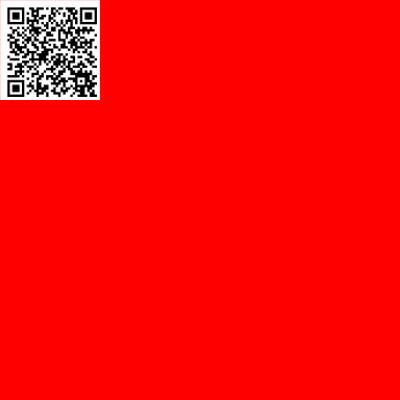
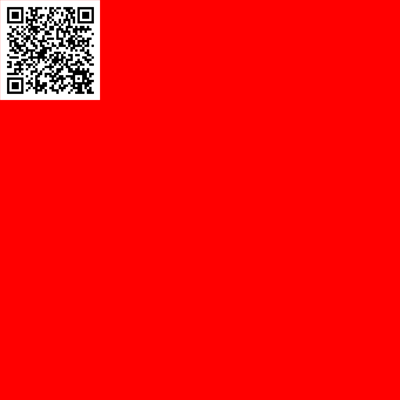
feat: clip rectangle with oss

Changed region(s): [[0.0, 0.0, 0.24, 0.24]]

diff --git a/src/canvas/util.go b/src/canvas/util.go
@@ -21,20 +21,35 @@ func urlIsOss(imgURL string) bool {
 }
 
 // reformatUrl 将oss地址替换为内网地址，用oss实时缩图
-func reformatURL(imageURL string, resize bool, w float64, h float64) (string, error) {
+func reformatURL(imageURL string, r float64, resize bool, w float64, h float64) (string, error) {
 	if config.IsLocal() == false {
 		// 替换为内网地址
 		imageURL = strings.Replace(imageURL, "img.laiye.com", "laiye-image.oss-cn-beijing-internal.aliyuncs.com", 1)
 		imageURL = strings.Replace(imageURL, "oss-cn-beijing.aliyuncs.com", "oss-cn-beijing-internal.aliyuncs.com", 1)
 	}
-	if w == float64(0) && h == float64(0) && urlIsOss(imageURL) {
-		return "", fmt.Errorf("image(%s) not in oss can not assign w, h", imageURL)
-	} else if resize && w != float64(0) && h != float64(0) && urlIsOss(imageURL) {
-		// 调用 resize，默认是不允许放大。即如果请求的图片比原图大，那么返回的仍然是原图。如果想取到放大的图片，即增加参数调用 limit_0
-		// @see https://help.aliyun.com/document_detail/44688.html?spm=a2c4g.11186623.6.1367.57f117f1UQGsW3
-		// oss实时缩图，注意oss不支持float，所以这里要强转
+
+	// early return
+	if !urlIsOss(imageURL) || w == float64(0) || h == float64(0) {
+		return imageURL, nil
+	}
+
+	// 需要调用oss接口对图片做处理
+	if r > 0 || resize {
+		imageURL += "?x-oss-process=image"
+
 		// TODO: 如果使用oss resize，二维码会变形，原因未知
-		imageURL += fmt.Sprintf("?x-oss-process=image/resize,m_lfit,h_%d,w_%d,limit_0", uint32(h), uint32(w))
+		// @see https://help.aliyun.com/document_detail/44688.html?spm=a2c4g.11186623.6.1367.57f117f1UQGsW3
+		if resize {
+			// 调用 resize，默认是不允许放大。即如果请求的图片比原图大，那么返回的仍然是原图。如果想取到放大的图片，即增加参数调用 limit_0
+			// oss实时缩图，注意oss不支持float，所以这里要强转
+			imageURL += fmt.Sprintf("/resize,m_lfit,h_%d,w_%d,limit_0", uint32(h), uint32(w))
+		}
+
+		// 图片切圆角
+		// @see https://help.aliyun.com/document_detail/44694.html?spm=a2c4g.11186623.6.1372.5959c1f6Sz0KTS
+		if r > 0 {
+			imageURL += fmt.Sprintf("/rounded-corners,r_%d/format,png", uint32(r))
+		}
 	}
 
 	return imageURL, nil
@@ -50,12 +65,12 @@ func getFileContentType(buffer []byte) (string, error) {
 }
 
 // LoadImageByteFromRemote 从远程获取图片的字节流
-func loadImageByteFromRemote(imgURL string, resize bool, w float64, h float64) ([]byte, string, error) {
+func loadImageByteFromRemote(i *Image) ([]byte, string, error) {
 	img := []byte{}
 	var t string
 
 	// TODO: 使用阿里云oss处理图片 如果使用oss拉取图片，就变形了
-	imgURL, err := reformatURL(imgURL, resize, w, h)
+	imgURL, err := reformatURL(i.ImageURL, i.BorderRadius, i.Resize, i.Width, i.Height)
 	if err != nil {
 		return img, t, err
 	}

diff --git a/src/canvas/image.go b/src/canvas/image.go
@@ -8,6 +8,7 @@ import (
 	"image/draw"
 	"image/jpeg"
 	"image/png"
+	"os"
 
 	// "os"
 
@@ -32,13 +33,12 @@ func (i *Image) Draw(c *canvas.Context) {
 
 	// 	fmt.Println("=====ClipPreserve", img.Bounds())
 	// }
-
 	// test 图片边缘裁剪
-	// 获取实际图片尺寸和传入参数之间的比例
-	scale := (float64(img.Bounds().Dx()) / i.Width)
 
 	// TODO: 阿里云oss resize不会对图片进行放大,只能缩小，所以绘制时仍然要依赖绘图库进行图片缩放
 	// TODO: 2020.4.7 考虑将计算缩放比率放到切图之后
+	// TODO: 研究一下crop的mode参数copy机制，对性能会有帮助
+	// 注意裁剪是基于原图尺寸的，例如二位码应该裁剪到430-370, starpos (30, 30)
 	if i.Clip.Width > 0 {
 		croppedImg, _ := cutter.Crop(img, cutter.Config{
 			Width:  i.Clip.Width,
@@ -46,7 +46,19 @@ func (i *Image) Draw(c *canvas.Context) {
 			Anchor: image.Point{i.Clip.X, i.Clip.Y},
 		})
 		img = croppedImg
+
+		f, err := os.Create("test_crop.jpg")
+		if err != nil {
+			panic(err)
+		}
+		defer f.Close()
+		jpeg.Encode(f, img, nil)
+		temp, _ := os.Open("test_crop.jpg")
+		img, _ = jpeg.Decode(temp)
 	}
+
+	// 获取实际图片尺寸和传入参数之间的比例
+	scale := (float64(img.Bounds().Dx()) / i.Width)
 
 	fmt.Println("=== image_draw: ", i.MimeType, i.ImageURL, i.Width, i.Height, scale, img.Bounds().Dx(), img.Bounds())
 	c.DrawImage(i.X, i.Y*-1-i.Height, img, scale)
@@ -94,7 +106,7 @@ func (i *Image) fetch() error {
 	// 	img, t, err = b.getLocalBufferImage(name, image)
 	// 	libs.Log().Info("trace_id(%s) get image(%+v) from local buffer, err(%+v)", traceId, image, err)
 	// } else {
-	img, t, err = loadImageByteFromRemote(i.ImageURL, i.Resize, i.Width, i.Height)
+	img, t, err = loadImageByteFromRemote(i)
 	// libs.Log().Info("trace_id(%s) get image(%+v) from remote, err(%+v)", traceId, image, err)
 	// }
 

diff --git a/src/canvas/canvas_test.go b/src/canvas/canvas_test.go
@@ -23,6 +23,7 @@ func TestCreateImage(t *testing.T) {
 			Width:    1125,
 			Height:   1125,
 			ImageURL: "https://img.laiye.com/checkinAlbum_20200316083737_htqvLACrln.jpg",
+			Resize:   true,
 		},
 		&Image{
 			// name: "avatar"
@@ -33,6 +34,7 @@ func TestCreateImage(t *testing.T) {
 			Width:        150,
 			Height:       150,
 			BorderRadius: 75,
+			Resize:       true,
 		},
 		&Image{
 			// name: "qrCode"
@@ -44,10 +46,10 @@ func TestCreateImage(t *testing.T) {
 			Height: 150,
 			Width:  150,
 			Clip: ImageClip{
-				Width:  132,
-				Height: 132,
-				X:      9,
-				Y:      9,
+				Width:  370,
+				Height: 370,
+				X:      30,
+				Y:      30,
 			},
 		},
 		&Text{
